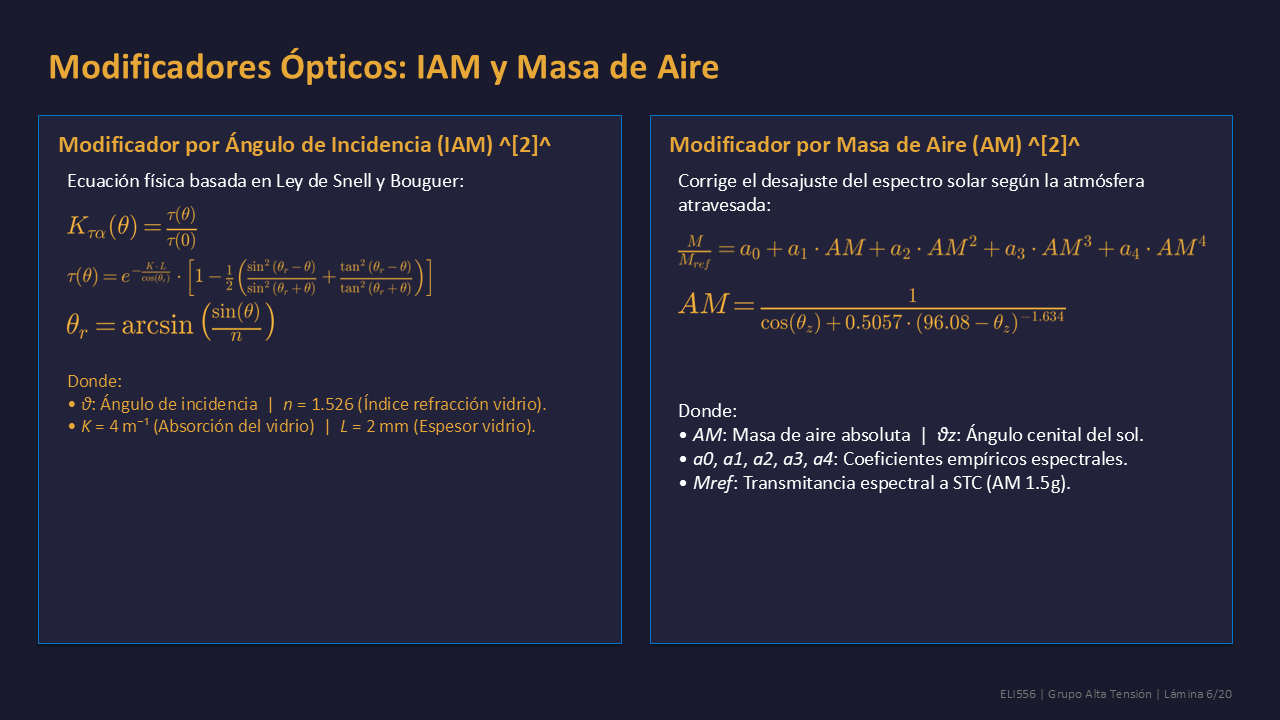
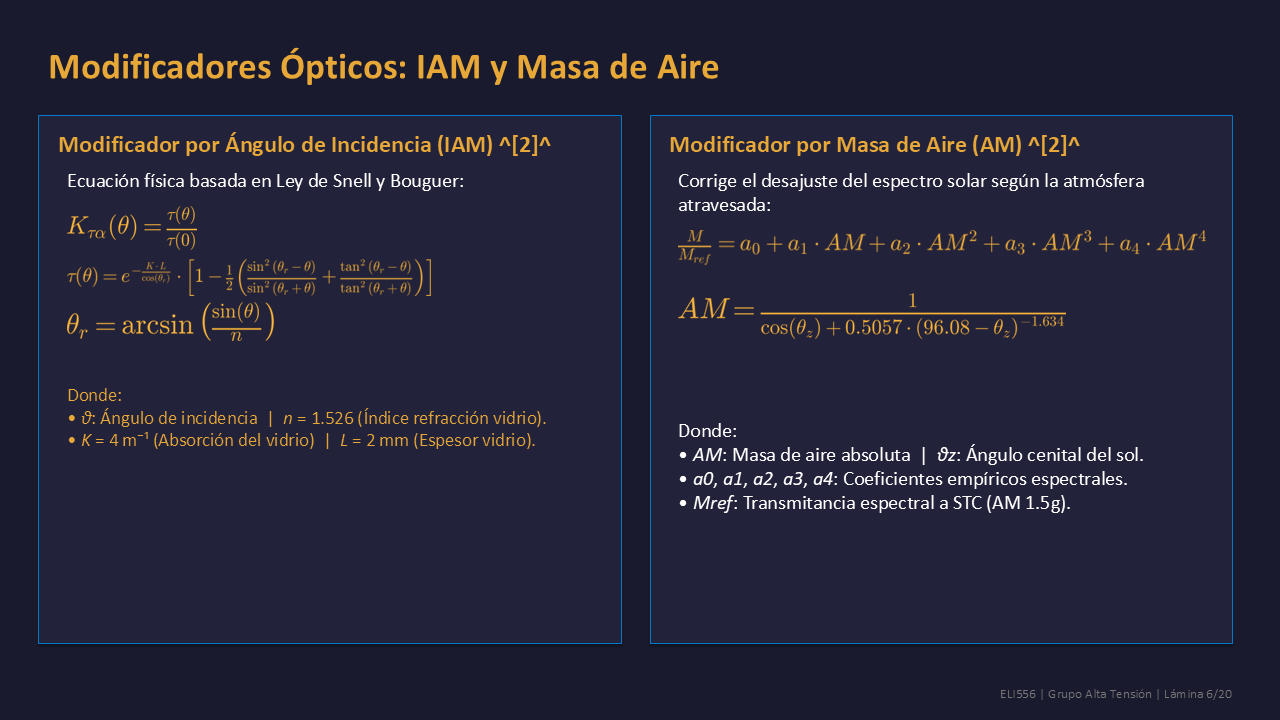
Optimize vertical spacing between equations/texts and remove Cover slide subtitle/citation

diff --git a/src/fase6_gen_presentation.py b/src/fase6_gen_presentation.py
@@ -187,14 +187,12 @@ def create_presentation():
     apply_slide_background(slide)
     add_text(slide, MARGIN, Inches(1.8), SLIDE_WIDTH - 2*MARGIN, Inches(1.5), 
              "Evaluación de Tecnologías Fotovoltaicas en el Desierto de Atacama", size=36, bold=True, color=ACCENT_GOLD, align=PP_ALIGN.CENTER)
-    add_text(slide, MARGIN, Inches(3.2), SLIDE_WIDTH - 2*MARGIN, Inches(0.8), 
-             "Modelamiento Eléctrico mediante el Modelo de 5 Parámetros de De Soto^[1]^", size=22, align=PP_ALIGN.CENTER)
     
     names_text = ("Integrantes / Estudiantes:\n"
                   "Laury Gualdron  |  Sebastian Marin  |  Alejandro Hernández\n\n"
                   "Profesor Guía: Carlos Cardenas\n"
                   "ELI556 — Modelamiento y Análisis de Sistemas PV  |  Grupo Alta Tensión (AT)")
-    add_text(slide, MARGIN, Inches(4.5), SLIDE_WIDTH - 2*MARGIN, Inches(1.8), names_text, size=16, color=TEXT_WHITE, align=PP_ALIGN.CENTER)
+    add_text(slide, MARGIN, Inches(3.8), SLIDE_WIDTH - 2*MARGIN, Inches(1.8), names_text, size=16, color=TEXT_WHITE, align=PP_ALIGN.CENTER)
     add_footer(slide, 1, TOTAL_SLIDES)
 
     # --- SLIDE 2: Motivación ---
@@ -318,14 +316,14 @@ def create_presentation():
                        MARGIN + Inches(0.3), Inches(2.10), Inches(0.50))
     
     # 2. Irradiancia Absorbida por Celdas (S)
-    add_text(slide, MARGIN + Inches(0.2), Inches(2.85), COLUMN_WIDTH - Inches(0.4), Inches(0.35),
+    add_text(slide, MARGIN + Inches(0.2), Inches(3.00), COLUMN_WIDTH - Inches(0.4), Inches(0.35),
              "2. Irradiancia Absorbida por Celdas (_S_):", size=16, color=TEXT_WHITE)
     add_latex_equation(slide, 
                        r"\frac{S}{S_{ref}} = \frac{G_b}{G_{ref}} \cdot R_{beam} \cdot K_{\tau\alpha,b} + \frac{G_d}{G_{ref}} \cdot K_{\tau\alpha,d} \cdot \left(\frac{1 + \cos(\beta)}{2}\right) + \frac{G}{G_{ref}} \cdot \rho \cdot K_{\tau\alpha,g} \cdot \left(\frac{1 - \cos(\beta)}{2}\right)", 
-                       MARGIN + Inches(0.3), Inches(3.30), Inches(0.33))
+                       MARGIN + Inches(0.3), Inches(3.45), Inches(0.33))
     
     # Donde S_ref ...
-    add_text(slide, MARGIN + Inches(0.2), Inches(4.20), COLUMN_WIDTH - Inches(0.4), Inches(2.0),
+    add_text(slide, MARGIN + Inches(0.2), Inches(4.45), COLUMN_WIDTH - Inches(0.4), Inches(2.0),
              "Donde _S_[_ref_] = _G_[_ref_] = 1000 W/m² en condiciones de referencia (SRC).", size=15, color=ACCENT_GOLD)
     
     add_panel(slide, MARGIN + COLUMN_WIDTH + GAP, Inches(1.2), COLUMN_WIDTH, Inches(5.5), title="Glosario de Términos")
@@ -356,13 +354,13 @@ def create_presentation():
         "• _θ_: Ángulo de incidencia  |  _n_ = 1.526 (Índice refracción vidrio).\n"
         "• _K_ = 4 m⁻¹ (Absorción del vidrio)  |  _L_ = 2 mm (Espesor vidrio)."
     )
-    add_text(slide, MARGIN + Inches(0.2), Inches(3.80), COLUMN_WIDTH - Inches(0.4), Inches(2.5), iam_details, size=14, color=ACCENT_GOLD)
+    add_text(slide, MARGIN + Inches(0.2), Inches(3.95), COLUMN_WIDTH - Inches(0.4), Inches(2.5), iam_details, size=14, color=ACCENT_GOLD)
     
     add_panel(slide, MARGIN + COLUMN_WIDTH + GAP, Inches(1.2), COLUMN_WIDTH, Inches(5.5), title="Modificador por Masa de Aire (AM) ^[2]^")
     add_text(slide, MARGIN + COLUMN_WIDTH + GAP + Inches(0.2), Inches(1.7), COLUMN_WIDTH - Inches(0.4), Inches(0.35),
              "Corrige el desajuste del espectro solar según la atmósfera atravesada:", size=15)
-    add_latex_equation(slide, r"\frac{M}{M_{ref}} = a_0 + a_1 \cdot AM + a_2 \cdot AM^2 + a_3 \cdot AM^3 + a_4 \cdot AM^4", MARGIN + COLUMN_WIDTH + GAP + Inches(0.3), Inches(2.45), Inches(0.38))
-    add_latex_equation(slide, r"AM = \frac{1}{\cos(\theta_z) + 0.5057 \cdot (96.08 - \theta_z)^{-1.634}}", MARGIN + COLUMN_WIDTH + GAP + Inches(0.3), Inches(3.00), Inches(0.48))
+    add_latex_equation(slide, r"\frac{M}{M_{ref}} = a_0 + a_1 \cdot AM + a_2 \cdot AM^2 + a_3 \cdot AM^3 + a_4 \cdot AM^4", MARGIN + COLUMN_WIDTH + GAP + Inches(0.3), Inches(2.40), Inches(0.38))
+    add_latex_equation(slide, r"AM = \frac{1}{\cos(\theta_z) + 0.5057 \cdot (96.08 - \theta_z)^{-1.634}}", MARGIN + COLUMN_WIDTH + GAP + Inches(0.3), Inches(3.05), Inches(0.48))
     
     am_details = (
         "Donde:\n"
@@ -370,7 +368,7 @@ def create_presentation():
         "• _a_[_0_], _a_[_1_], _a_[_2_], _a_[_3_], _a_[_4_]: Coeficientes empíricos espectrales.\n"
         "• _M_[_ref_]: Transmitancia espectral a STC (AM 1.5g)."
     )
-    add_text(slide, MARGIN + COLUMN_WIDTH + GAP + Inches(0.2), Inches(4.10), COLUMN_WIDTH - Inches(0.4), Inches(3.0), am_details, size=15)
+    add_text(slide, MARGIN + COLUMN_WIDTH + GAP + Inches(0.2), Inches(4.30), COLUMN_WIDTH - Inches(0.4), Inches(3.0), am_details, size=15)
     add_footer(slide, 6, TOTAL_SLIDES)
 
     # --- SLIDE 7: Perfil Diario (Imagen) ---
@@ -398,7 +396,7 @@ def create_presentation():
         "• _v_[_w_]: Velocidad del viento (m/s).\n"
         "• _a_, _b_, _ΔT_: Parámetros empíricos del encapsulado."
     )
-    add_text(slide, MARGIN + Inches(0.2), Inches(3.20), COLUMN_WIDTH - Inches(0.4), Inches(3.0), thermal_details, size=15, color=ACCENT_GOLD)
+    add_text(slide, MARGIN + Inches(0.2), Inches(3.30), COLUMN_WIDTH - Inches(0.4), Inches(3.0), thermal_details, size=15, color=ACCENT_GOLD)
     
     add_panel(slide, MARGIN + COLUMN_WIDTH + GAP, Inches(1.2), COLUMN_WIDTH, Inches(5.5), title="Coeficientes por Tecnología")
     thermal_coef = (
@@ -439,9 +437,9 @@ def create_presentation():
     # Altura optimizada a 0.38 para maximizar tamaño sin desbordar de la columna
     add_latex_equation(slide, r"I = I_L - I_0 \cdot \left[ \exp\left(\frac{V + I \cdot R_s}{a}\right) - 1 \right] - \frac{V + I \cdot R_s}{R_{sh}}", MARGIN + Inches(0.3), Inches(2.45), Inches(0.38))
     
-    add_text(slide, MARGIN + Inches(0.2), Inches(3.00), COLUMN_WIDTH - Inches(0.4), Inches(0.35),
+    add_text(slide, MARGIN + Inches(0.2), Inches(3.40), COLUMN_WIDTH - Inches(0.4), Inches(0.35),
              "El factor de idealidad térmico (_a_) se define formalmente como:", size=16)
-    add_latex_equation(slide, r"a = \frac{N_s \cdot n_I \cdot k \cdot T_c}{q}", MARGIN + Inches(0.3), Inches(3.75), Inches(0.50))
+    add_latex_equation(slide, r"a = \frac{N_s \cdot n_I \cdot k \cdot T_c}{q}", MARGIN + Inches(0.3), Inches(3.95), Inches(0.50))
     
     add_panel(slide, MARGIN + COLUMN_WIDTH + GAP, Inches(1.2), COLUMN_WIDTH, Inches(5.5), title="Glosario de Parámetros Físicos")
     sdm_glossary = (
@@ -473,21 +471,21 @@ def create_presentation():
              "4. Pendiente en MPP (d_P_/d_V_ = 0):", size=15)
     add_latex_equation(slide, r"\left.\frac{dI}{dV}\right|_{mp} = -\frac{I_{mp,ref}}{V_{mp,ref}}", MARGIN + Inches(0.3), Inches(3.35), Inches(0.50))
     
-    add_text(slide, MARGIN + Inches(0.2), Inches(4.05), COLUMN_WIDTH - Inches(0.4), Inches(0.35),
+    add_text(slide, MARGIN + Inches(0.2), Inches(4.15), COLUMN_WIDTH - Inches(0.4), Inches(0.35),
              "5. Coeficiente térmico de _V_[_oc_]:", size=15)
-    add_latex_equation(slide, r"\beta_{Voc} = \frac{\partial V_{oc}}{\partial T_c}", MARGIN + Inches(0.3), Inches(4.50), Inches(0.45))
+    add_latex_equation(slide, r"\beta_{Voc} = \frac{\partial V_{oc}}{\partial T_c}", MARGIN + Inches(0.3), Inches(4.60), Inches(0.45))
     
     add_panel(slide, MARGIN + COLUMN_WIDTH + GAP, Inches(1.2), COLUMN_WIDTH, Inches(5.5), title="Ecuación de la Derivada Analítica en MPP")
     add_text(slide, MARGIN + COLUMN_WIDTH + GAP + Inches(0.2), Inches(1.7), COLUMN_WIDTH - Inches(0.4), Inches(0.35),
              "Para acoplar _R_[_s_] y el factor de idealidad, se implementa la derivada analítica obtenida del circuito:", size=15)
-    add_latex_equation(slide, r"\left.\frac{dI}{dV}\right|_{mp} = -\frac{A + B}{1 + R_s \cdot A + R_s \cdot B}", MARGIN + COLUMN_WIDTH + GAP + Inches(0.3), Inches(2.75), Inches(0.52))
+    add_latex_equation(slide, r"\left.\frac{dI}{dV}\right|_{mp} = -\frac{A + B}{1 + R_s \cdot A + R_s \cdot B}", MARGIN + COLUMN_WIDTH + GAP + Inches(0.3), Inches(2.50), Inches(0.52))
     
-    add_text(slide, MARGIN + COLUMN_WIDTH + GAP + Inches(0.2), Inches(3.45), COLUMN_WIDTH - Inches(0.4), Inches(0.35),
+    add_text(slide, MARGIN + COLUMN_WIDTH + GAP + Inches(0.2), Inches(3.65), COLUMN_WIDTH - Inches(0.4), Inches(0.35),
              "Donde:", size=15)
-    add_latex_equation(slide, r"A = \frac{I_0}{a} \cdot e^{\frac{V_{mp} + I_{mp} \cdot R_s}{a}}", MARGIN + COLUMN_WIDTH + GAP + Inches(0.3), Inches(3.90), Inches(0.50))
-    add_latex_equation(slide, r"B = \frac{1}{R_{sh}}", MARGIN + COLUMN_WIDTH + GAP + Inches(0.3), Inches(4.55), Inches(0.40))
+    add_latex_equation(slide, r"A = \frac{I_0}{a} \cdot e^{\frac{V_{mp} + I_{mp} \cdot R_s}{a}}", MARGIN + COLUMN_WIDTH + GAP + Inches(0.3), Inches(4.10), Inches(0.50))
+    add_latex_equation(slide, r"B = \frac{1}{R_{sh}}", MARGIN + COLUMN_WIDTH + GAP + Inches(0.3), Inches(4.80), Inches(0.40))
     
-    add_text(slide, MARGIN + COLUMN_WIDTH + GAP + Inches(0.2), Inches(5.15), COLUMN_WIDTH - Inches(0.4), Inches(1.5),
+    add_text(slide, MARGIN + COLUMN_WIDTH + GAP + Inches(0.2), Inches(5.55), COLUMN_WIDTH - Inches(0.4), Inches(1.5),
              "La optimización se realiza mediante ajuste de mínimos cuadrados con bounds físicos (_R_[_s_] > 0, _n_[_I_] ∈ [1, 2]).", size=14, color=ACCENT_GOLD)
     add_footer(slide, 11, TOTAL_SLIDES)
 
@@ -514,7 +512,7 @@ def create_presentation():
     
     add_text(slide, MARGIN + Inches(0.2), Inches(5.70), COLUMN_WIDTH - Inches(0.4), Inches(0.3), "Donde _E_[_g,ref_] = 1.121 eV para Silicio a 25°C.", size=14, color=ACCENT_GOLD)
     
-    add_panel(slide, MARGIN + COLUMN_WIDTH + GAP, Inches(1.2), COLUMN_WIDTH, Inches(5.5), title="Suposiciones Ficas Justificadas")
+    add_panel(slide, MARGIN + COLUMN_WIDTH + GAP, Inches(1.2), COLUMN_WIDTH, Inches(5.5), title="Suposiciones Físicas Justificadas")
     scale_just = (
         "• _R_[_s_] Constante: Se asume _R_[_s_] = _R_[_s,ref_].\n"
         "  Justificación: De Soto (2006)^[1]^ demuestra mediante validaciones contra NIST que la variación térmica de _R_[_s_] es de segundo orden y su efecto en la curva _I_-_V_ es despreciable.\n\n"
@@ -565,7 +563,7 @@ def create_presentation():
         "• _G_[_poa_]: Irradiancia calculada en el plano del panel (W/m²).\n"
         "• 1000: Irradiancia de referencia a STC (W/m²)."
     )
-    add_text(slide, MARGIN + Inches(0.2), Inches(3.15), COLUMN_WIDTH - Inches(0.4), Inches(3.0), pr_details, size=15, color=ACCENT_GOLD)
+    add_text(slide, MARGIN + Inches(0.2), Inches(3.30), COLUMN_WIDTH - Inches(0.4), Inches(3.0), pr_details, size=15, color=ACCENT_GOLD)
     
     add_panel(slide, MARGIN + COLUMN_WIDTH + GAP, Inches(1.2), COLUMN_WIDTH, Inches(5.5), title="Significado Físico del PR")
     pr_phys = (
